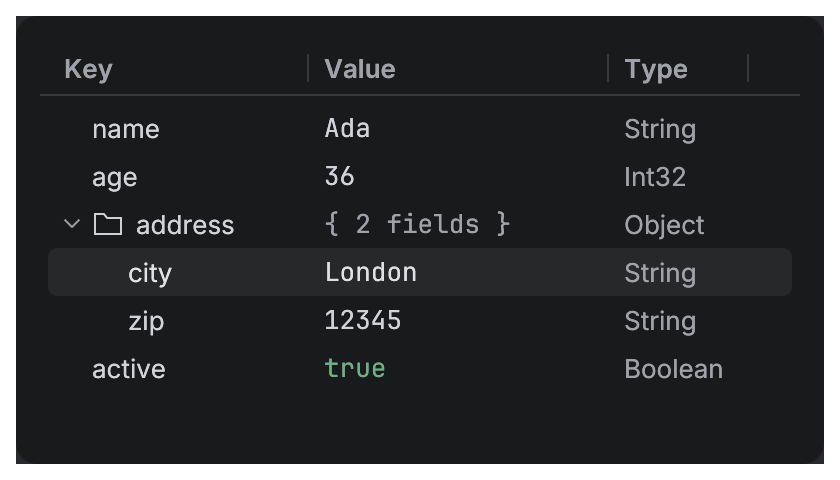
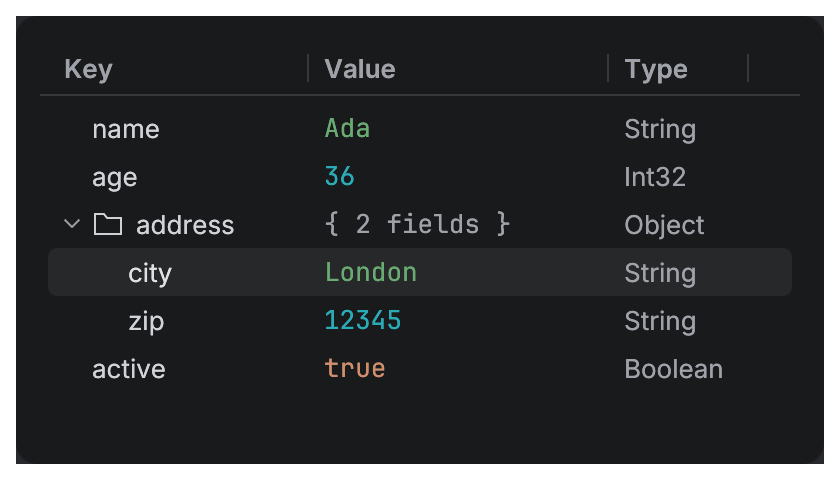
feat(collections): color table cells by value kind (#7)
* feat(collections): reorder Table columns by dragging headers and edit cells inline

Table::reorderable makes headers drag sources and drop targets
(behaviour::DragSource/DropTarget) and reports the new order in
CollectionResponse::column_order; the caller owns the column order.
Editable cells (Cell::editable) open the same inline editor as TreeTable
(F2, Enter, double-click; Enter commits, Escape cancels) and report
CollectionResponse::edited. The edit session is shared code in collections/edit.rs.

Claude-Session: https://claude.ai/code/session_0173x8kB9mSFHaRsoHsnffai

* feat(collections): color table cells by value kind

Cell::value_kind(ValueKind) colors a cell with the editor syntax color of its
value type, in Table and TreeTable. Like a tone it keeps its color when the
row is selected; the last of .tone and .value_kind wins.

Claude-Session: https://claude.ai/code/session_0173x8kB9mSFHaRsoHsnffai

---------

diff --git a/crates/archipel-kit/tests/collections.rs b/crates/archipel-kit/tests/collections.rs
@@ -7,7 +7,7 @@ use archipel_kit::components::{
 };
 use archipel_kit::icons::Language;
 use archipel_kit::testing::{self, NodeExt, Queryable};
-use archipel_kit::{Glyph, Theme, Tone};
+use archipel_kit::{Glyph, Theme, Tone, ValueKind};
 use egui::Key;
 
 fn label(i: usize) -> String {
@@ -382,15 +382,15 @@ fn document_cell(row: usize, col: usize, address_open: bool, name: &str, city: &
         ["name", "age", "address", "active"].as_slice()
     };
     match (keys[row], col) {
-        ("name", 1) => Cell::new(name).editable(true),
+        ("name", 1) => Cell::new(name).value_kind(ValueKind::String).editable(true),
         ("name", _) => Cell::new("String").muted(),
-        ("age", 1) => Cell::new("36").editable(true),
+        ("age", 1) => Cell::new("36").value_kind(ValueKind::Number).editable(true),
         ("age", _) => Cell::new("Int32").muted(),
-        ("address", 1) => Cell::new("{ 2 fields }").muted(),
+        ("address", 1) => Cell::new("{ 2 fields }").value_kind(ValueKind::Punctuation),
         ("address", _) => Cell::new("Object").muted(),
-        ("city", 1) => Cell::new(city).editable(true),
-        ("zip", 1) => Cell::new("12345"),
-        ("active", 1) => Cell::new("true").tone(Tone::Success),
+        ("city", 1) => Cell::new(city).value_kind(ValueKind::String).editable(true),
+        ("zip", 1) => Cell::new("12345").value_kind(ValueKind::Number),
+        ("active", 1) => Cell::new("true").value_kind(ValueKind::Boolean),
         ("active", _) => Cell::new("Boolean").muted(),
         _ => Cell::new("String").muted(),
     }
@@ -1027,4 +1027,42 @@ fn table_editing_snapshot() {
         ));
     }
     results.unwrap();
+}
+
+// ---- Cell::value_kind ----
+
+/// One row per value kind, the third (a string) selected: the kind colors stay when a row is
+/// selected, like tones do, and `.tone` still works next to `.value_kind`.
+#[test]
+fn table_value_kinds_snapshot() {
+    testing::snapshot_themes("table_value_kinds", common::IMG, |ui| {
+        ui.set_width(380.0);
+        let mut columns = vec![
+            Column::new("Kind", 90.0),
+            Column::new("Value", 200.0).mono(),
+            Column::new("Tone", 60.0),
+        ];
+        let mut selected = Some(0);
+        let samples = [
+            ("String", "\"Ada\"", ValueKind::String),
+            ("Number", "36", ValueKind::Number),
+            ("Boolean", "true", ValueKind::Boolean),
+            ("Null", "null", ValueKind::Null),
+            ("Date", "2026-10-11T09:30:00Z", ValueKind::Date),
+            ("ObjectId", "64f1a2b3c4d5e6f7a8b9c0d1", ValueKind::Id),
+            ("Binary", "BinData(0, 3q2+7w==)", ValueKind::Binary),
+            ("Key", "address", ValueKind::Key),
+            ("Punctuation", "{ 2 fields }", ValueKind::Punctuation),
+        ];
+        let _ = Table::new("kinds", &mut columns, samples.len(), &mut selected)
+            .height(24.0 * 9.0)
+            .show(ui, |row, col| match col {
+                0 => Cell::new(samples[row].0),
+                1 => Cell::new(samples[row].1).value_kind(samples[row].2),
+                // The last of tone and kind wins.
+                _ => Cell::new("tone")
+                    .value_kind(ValueKind::Number)
+                    .tone(Tone::Error),
+            });
+    });
 }

diff --git a/crates/archipel-kit/src/components/collections/mod.rs b/crates/archipel-kit/src/components/collections/mod.rs
@@ -14,7 +14,7 @@ pub use tree_table::TreeTable;
 use super::{ListRow, common};
 use crate::behaviour::{Behaviour, DragSource, DropTarget};
 use crate::icons::{self, Glyph, Icon};
-use crate::parts::Tone;
+use crate::parts::{Tone, ValueKind};
 use crate::theme::Theme;
 use crate::tokens::{radius, size, typography};
 use egui::{
@@ -591,12 +591,19 @@ impl Column {
     }
 }
 
+/// How a cell's text is colored: by meaning (a tone) or by value type.
+#[derive(Debug, Clone, Copy)]
+enum CellColor {
+    Tone(Tone),
+    Kind(ValueKind),
+}
+
 /// The content of a table cell.
 #[derive(Debug, Clone, Default)]
 pub struct Cell {
     text: String,
     icon: Option<Icon>,
-    tone: Option<Tone>,
+    color: Option<CellColor>,
     editable: bool,
 }
 
@@ -618,7 +625,7 @@ impl Cell {
     /// Meaning of the text's color: [`Tone::Error`] for a 500, [`Tone::Muted`] for nulls
     /// and timestamps.
     pub fn tone(mut self, tone: Tone) -> Self {
-        self.tone = Some(tone);
+        self.color = Some(CellColor::Tone(tone));
         self
     }
 
@@ -627,6 +634,15 @@ impl Cell {
     /// [`CollectionResponse::edited`].
     pub fn editable(mut self, editable: bool) -> Self {
         self.editable = editable;
+        self
+    }
+
+    /// The type of the value, colored like the code editor does ([`ValueKind::String`],
+    /// [`ValueKind::Number`], [`ValueKind::Null`] …): for document and JSON views. Like a
+    /// tone it keeps its color when the row is selected. Replaces an earlier
+    /// [`tone`](Self::tone) (and the other way round): the last call wins.
+    pub fn value_kind(mut self, kind: ValueKind) -> Self {
+        self.color = Some(CellColor::Kind(kind));
         self
     }
 
@@ -990,8 +1006,9 @@ pub(super) fn paint_cell(ui: &Ui, rect: Rect, column: &Column, cell: Cell, selec
     } else {
         typography::body(typography::BODY)
     };
-    let color = match (cell.tone, selected) {
-        (Some(tone), _) => tone.color(&colors),
+    let color = match (cell.color, selected) {
+        (Some(CellColor::Tone(tone)), _) => tone.color(&colors),
+        (Some(CellColor::Kind(kind)), _) => kind.resolve(ui.ctx()),
         (None, true) => colors.text_strong,
         (None, false) => colors.text,
     };

diff --git a/crates/archipel-kit-gallery/src/main.rs b/crates/archipel-kit-gallery/src/main.rs
@@ -199,9 +199,17 @@ impl Documents {
         .name("Documents")
         .height(220.0)
         .show(ui, |row, col| match self.index[row] {
-            (_, None) if col == 1 => Cell::new(format!("{{ {FIELDS} fields }}")).muted(),
+            (_, None) if col == 1 => {
+                Cell::new(format!("{{ {FIELDS} fields }}")).value_kind(ValueKind::Punctuation)
+            }
             (_, None) => Cell::new("Object").muted(),
-            (doc, Some(field)) if col == 1 => Cell::new(self.value(doc, field)).editable(true),
+            (doc, Some(field)) if col == 1 => Cell::new(self.value(doc, field))
+                .value_kind(match field % 3 {
+                    0 => ValueKind::Number,
+                    1 => ValueKind::String,
+                    _ => ValueKind::Boolean,
+                })
+                .editable(true),
             (_, Some(field)) => Cell::new(["Int32", "String", "Boolean"][field % 3]).muted(),
         });
         self.columns = columns;

diff --git a/docs/components/tree-table.md b/docs/components/tree-table.md
@@ -48,7 +48,7 @@ A double-click on a *non-editable* cell toggles a parent or activates a leaf, as
 
 ```rust
 use archipel_kit::components::{Cell, Column, TreeRow, TreeTable};
-use archipel_kit::{Glyph, egui};
+use archipel_kit::{Glyph, ValueKind, egui};
 
 struct Doc {
     columns: Vec<Column>,
@@ -69,9 +69,9 @@ fn document(ui: &mut egui::Ui, doc: &mut Doc) {
     let out = TreeTable::new("document", &mut doc.columns, &rows, &mut doc.selected)
         .name("Document")
         .show(ui, |row, col| match (row, col) {
-            (0, 1) => Cell::new(name.as_str()).editable(true),
-            (1, 1) => Cell::new("{ 1 field }").muted(),
-            (_, 1) => Cell::new("London"),
+            (0, 1) => Cell::new(name.as_str()).value_kind(ValueKind::String).editable(true),
+            (1, 1) => Cell::new("{ 1 field }").value_kind(ValueKind::Punctuation),
+            (_, 1) => Cell::new("London").value_kind(ValueKind::String),
             (1, _) => Cell::new("Object").muted(),
             _ => Cell::new("String").muted(),
         });
@@ -92,7 +92,7 @@ fn document(ui: &mut egui::Ui, doc: &mut Doc) {
 |---|---|
 | `TreeTable::new(id, &mut columns, &rows, &mut selected)` | `.sort(Option<(column, SortOrder)>)`, `.name(str)`, `.height(f32)`, `.show(ui, \|row, column\| Cell)` |
 | `TreeRow` | `.editable(bool)` for the key, plus `.parent`, `.icon`, `.secondary` as for `Tree` |
-| `Cell` | `.editable(bool)`, plus `.icon`, `.tone`, `.muted` as for `Table` |
+| `Cell` | `.editable(bool)`, `.value_kind(ValueKind)` (values in the editor's syntax colors, see [collections](collections.md#typed-values)), plus `.icon`, `.tone`, `.muted` as for `Table` |
 | `CellEdit` | `row`, `column`, `text` |
 | `CollectionResponse` | `selection_changed`, `activated`, `toggled`, `sort_clicked`, `edited` |
 

diff --git a/docs/components/collections.md b/docs/components/collections.md
@@ -71,6 +71,19 @@ fn grid(ui: &mut egui::Ui, grid: &mut Grid) {
 }
 ```
 
+### Typed values
+
+<picture>
+  <source media="(prefers-color-scheme: dark)" srcset="img/table_value_kinds.dark.png">
+  <img alt="A table with one row per value kind, each value in its editor syntax color" src="img/table_value_kinds.light.png" width="460">
+</picture>
+
+`Cell::value_kind(ValueKind)` colors a cell like the code editor colors the same kind of value
+(`String`, `Number`, `Boolean`, `Null`, `Date`, `Id`, `Binary`, `Key`, `Punctuation`; see
+[theming](../theming.md)): for document and JSON views, in `Table` and `TreeTable`. Like
+`.tone(Tone)` the color stays when the row is selected, and the last of the two calls wins.
+Use a tone for meaning (a 500 in red) and a kind for the type of data.
+
 ## The model
 
 All three work the same way:
@@ -172,7 +185,7 @@ fn results(
 | `TreeRow::new(label, depth)` | `.parent(expanded)`, `.icon(Icon)`, `.secondary(str)` |
 | `Table::new(id, &mut columns, len, &mut selected)` | `.sort(Option<(column, SortOrder)>)`, `.reorderable(bool)`, `.height(f32)`, `.show(ui, \|row, column\| Cell)` |
 | `Column::new(title, width)` | `.right()`, `.mono()`; `width` is public and changes when the user drags a header edge |
-| `Cell::new(text)` | `.editable(bool)`, `.icon(Icon)`, `.color(Color32)`, `.muted()`; `&str` and `String` convert into cells |
+| `Cell::new(text)` | `.value_kind(ValueKind)`, `.editable(bool)`, `.icon(Icon)`, `.color(Color32)`, `.muted()`; `&str` and `String` convert into cells |
 | `CollectionResponse` | `response`, `selection_changed`, `activated`, `toggled`, `sort_clicked`, `edited`, `column_order` |
 
 ## Behavior
